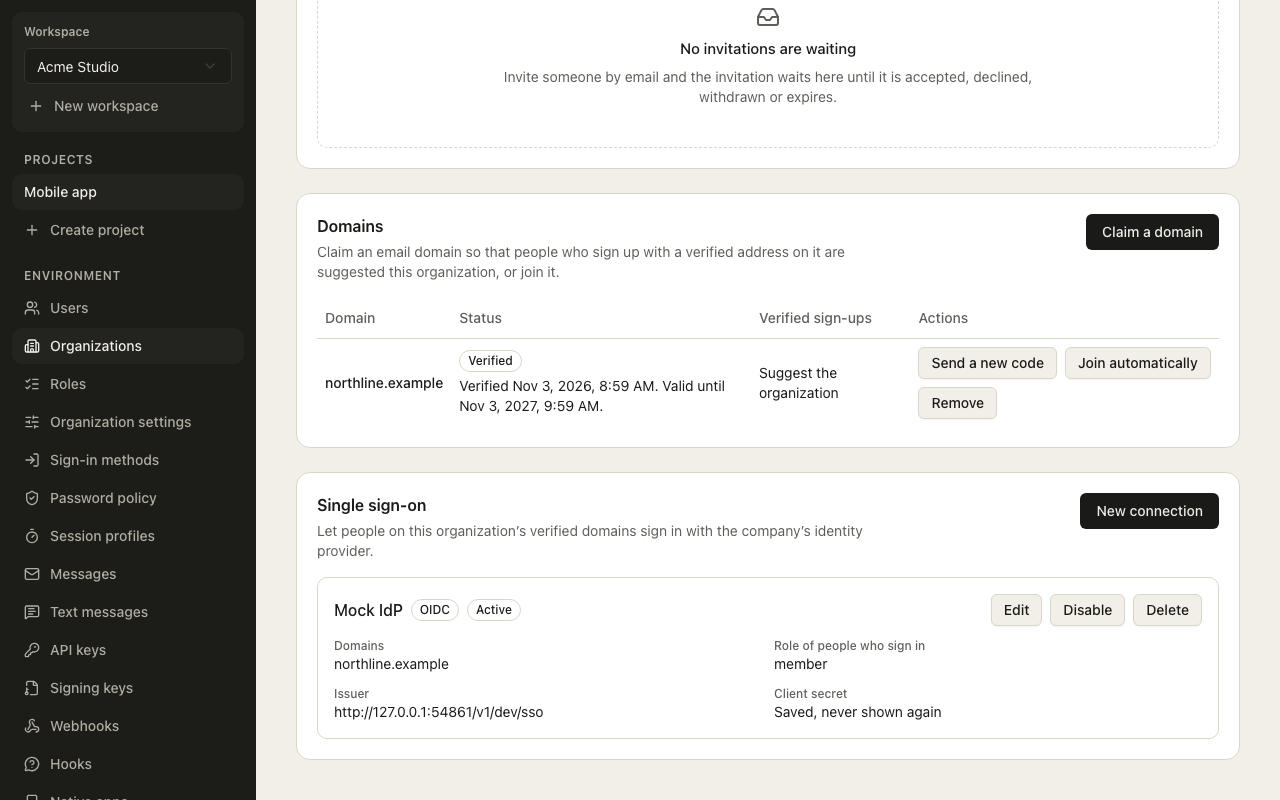
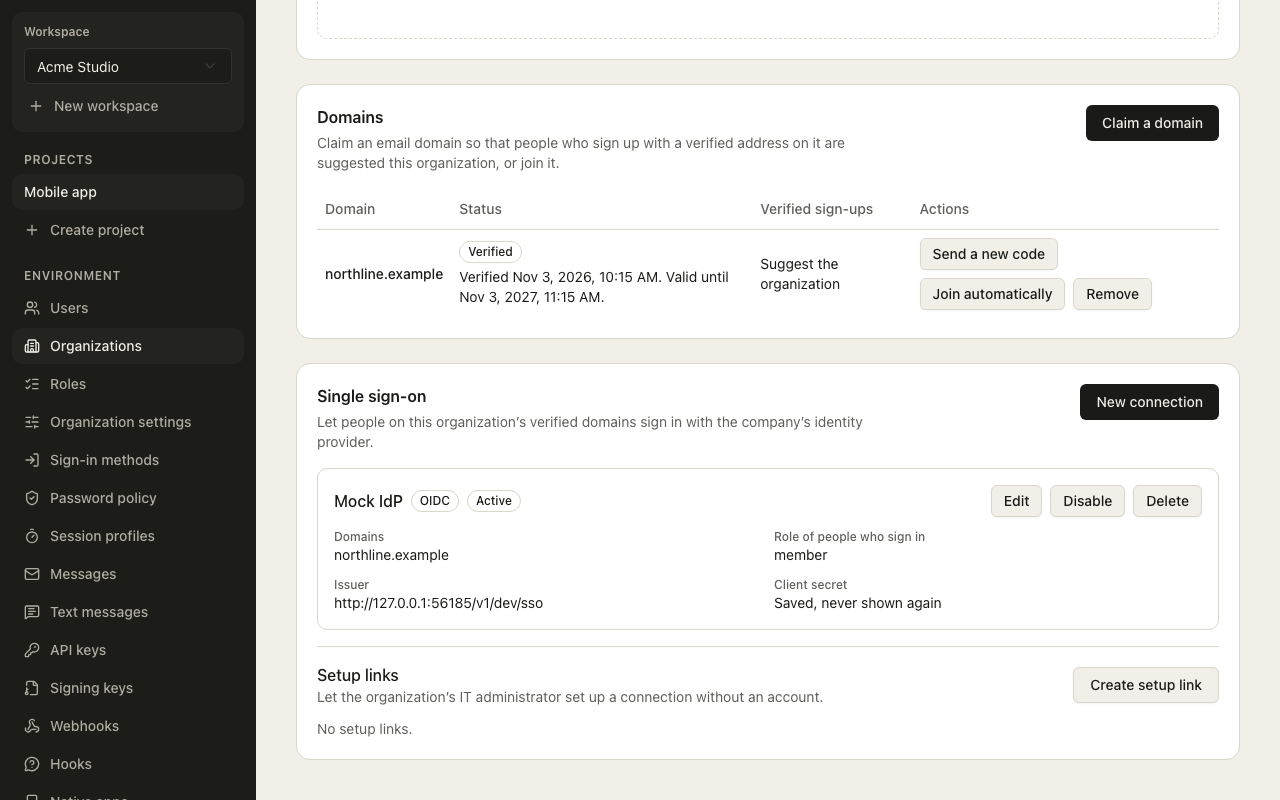
test(e2e): setup portal full OIDC setup against the mock IdP, with axe and screenshots
Claude-Session: https://claude.ai/code/session_01GVLsRtE52qs8qZGbcUxg3N

diff --git a/e2e/tests/dashboard/setup-portal.spec.ts b/e2e/tests/dashboard/setup-portal.spec.ts
@@ -1,0 +1,176 @@
+import type { Page } from '@playwright/test'
+import { API_URL, bindSsoDomain, restoreSettings } from '../support'
+import {
+  ENVIRONMENT_ID,
+  ENVIRONMENT_PATH,
+  expect,
+  expectNoSecretKept,
+  expectScreenAccessible,
+  signIn,
+  test,
+} from './support'
+
+// The self-serve SSO setup portal (TULA-149): an operator makes a setup link, and someone with
+// no account sets up, tests and activates an OIDC connection on the API's own mock identity
+// provider through it, under the real Content-Security-Policy.
+
+const DASHBOARD = {
+  'x-tula-dashboard': '1',
+  'x-tula-environment': ENVIRONMENT_ID,
+  origin: API_URL,
+}
+const DOMAIN = 'setup-portal.example.test'
+
+interface Row {
+  id: string
+  slug?: string
+}
+
+async function read<T>(page: Page, path: string): Promise<T> {
+  const response = await page.request.get(`${API_URL}${path}`, { headers: DASHBOARD })
+  expect(response.ok(), path).toBe(true)
+  return (await response.json()) as T
+}
+
+/** Every organization, its connections and its setup links go. */
+async function clear(page: Page): Promise<void> {
+  const organizations = await read<{ data: Row[] }>(page, '/v1/admin/organizations?size=100')
+  for (const organization of organizations.data) {
+    const links = await read<{ links: Row[] }>(
+      page,
+      `/v1/admin/setup-links?organizationId=${organization.id}`
+    )
+    for (const link of links.links) {
+      await page.request.delete(
+        `${API_URL}/v1/admin/setup-links/${link.id}?organizationId=${organization.id}`,
+        { headers: DASHBOARD }
+      )
+    }
+    const listed = await read<{ connections: Row[] }>(
+      page,
+      `/v1/admin/sso-connections?organizationId=${organization.id}`
+    )
+    for (const connection of listed.connections) {
+      await page.request.delete(`${API_URL}/v1/admin/sso-connections/${connection.id}`, {
+        headers: DASHBOARD,
+      })
+    }
+    await page.request.delete(`${API_URL}/v1/admin/organizations/${organization.id}`, {
+      headers: DASHBOARD,
+    })
+  }
+}
+
+let issuer = ''
+
+test.beforeEach(async ({ page }) => {
+  await signIn(page)
+  await restoreSettings(page.request)
+  issuer = await bindSsoDomain(page.request, DOMAIN)
+})
+
+test.afterEach(async ({ page }) => {
+  try {
+    await signIn(page)
+    await clear(page)
+  } finally {
+    await restoreSettings(page.request)
+  }
+})
+
+test('a setup link carries someone with no account through a full OIDC setup', async ({
+  page,
+  context,
+}) => {
+  // The fixture's organization has a verified domain and an active connection: take the
+  // connection away so that the portal starts from nothing.
+  const organizations = await read<{ data: Row[] }>(page, '/v1/admin/organizations?size=100')
+  const organization = organizations.data.find((entry) => entry.slug === 'sso-setup-portal')
+  expect(organization).toBeDefined()
+  const organizationId = (organization as Row).id
+  const existing = await read<{ connections: Row[] }>(
+    page,
+    `/v1/admin/sso-connections?organizationId=${organizationId}`
+  )
+  for (const connection of existing.connections) {
+    await page.request.delete(`${API_URL}/v1/admin/sso-connections/${connection.id}`, {
+      headers: DASHBOARD,
+    })
+  }
+
+  // The operator makes the link in the dashboard; the address is shown once.
+  await page.goto(`${ENVIRONMENT_PATH}/organizations/${organizationId}`)
+  await page.getByRole('button', { name: 'Create setup link' }).click()
+  await page.getByRole('dialog').getByRole('button', { name: 'Create link' }).click()
+  const address = (await page.getByTestId('created-setup-link').textContent()) ?? ''
+  expect(address).toContain('/dashboard/setup#token=tula_setup_')
+  await page.getByRole('button', { name: 'I have copied it' }).click()
+  await expect(page.getByRole('listitem', { name: 'Setup link SSO setup' })).toBeVisible()
+
+  // Someone with no session opens it. The mock provider needs a login hint, as in sso.spec.
+  await context.clearCookies()
+  await context.route('**/v1/dev/sso/authorize*', (route) => {
+    const url = new URL(route.request().url())
+    url.searchParams.set('login_hint', `tester@${DOMAIN}`)
+    return route.continue({ url: url.toString() })
+  })
+  const token = address.split('#token=')[1] ?? ''
+  await page.goto(address)
+  await expect(page.getByText(/Set up single sign-on for SSO Org/)).toBeVisible()
+  // The fragment is taken out of the address at once, and nothing keeps the token.
+  expect(page.url()).not.toContain(token)
+  await expectNoSecretKept(page, [token])
+  await expectScreenAccessible(page, 'setup portal, empty')
+
+  await page.getByLabel('Connection name').fill('Mock IdP')
+  await page.getByLabel('Issuer address').fill(issuer)
+  await page.getByLabel('Client ID').fill('e2e-sso')
+  await page.getByLabel('Client secret').fill('e2e-sso-secret')
+  await page.getByLabel(DOMAIN).check()
+  await page.getByRole('button', { name: 'Create connection' }).click()
+  await expect(page.getByText(/\/v1\/sso\/callback\//)).toBeVisible()
+  expect(await page.content()).not.toContain('e2e-sso-secret')
+  await expectScreenAccessible(page, 'setup portal, connection saved')
+
+  const activate = page.getByRole('button', { name: 'Activate the connection' })
+  await expect(activate).toBeDisabled()
+  const popup = page.waitForEvent('popup')
+  await page.getByRole('button', { name: 'Run a test sign-in' }).click()
+  await popup
+  await expect(page.getByText('The test passed.')).toBeVisible({ timeout: 20_000 })
+  await expect(activate).toBeEnabled()
+  await activate.click()
+  await expect(page.getByText(/This connection is active/)).toBeVisible()
+  await expectScreenAccessible(page, 'setup portal, activated')
+  await expectNoSecretKept(page, [token, 'e2e-sso-secret'])
+
+  // The audit log names the setup link as the actor of what the portal changed.
+  await signIn(page)
+  const listed = await read<{ connections: { status: string }[] }>(
+    page,
+    `/v1/admin/sso-connections?organizationId=${organizationId}`
+  )
+  expect(listed.connections.map((connection) => connection.status)).toEqual(['active'])
+})
+
+test('a revoked link is shown as not valid', async ({ page, context }) => {
+  const organizations = await read<{ data: Row[] }>(page, '/v1/admin/organizations?size=100')
+  const organizationId = (
+    organizations.data.find((entry) => entry.slug === 'sso-setup-portal') as Row
+  ).id
+  const created = await page.request.post(`${API_URL}/v1/admin/setup-links`, {
+    headers: DASHBOARD,
+    data: { organizationId, name: 'Revoked', expiresInDays: 7 },
+  })
+  expect(created.status()).toBe(201)
+  const link = (await created.json()) as { id: string; url: string }
+  const revoked = await page.request.delete(
+    `${API_URL}/v1/admin/setup-links/${link.id}?organizationId=${organizationId}`,
+    { headers: DASHBOARD }
+  )
+  expect(revoked.ok()).toBe(true)
+  await context.clearCookies()
+  await page.goto(link.url)
+  await expect(page.getByText('This setup link is not valid')).toBeVisible()
+  await expectScreenAccessible(page, 'setup portal, invalid link')
+})

diff --git a/e2e/tests/dashboard/screenshots.spec.ts b/e2e/tests/dashboard/screenshots.spec.ts
@@ -210,6 +210,18 @@ test('the dashboard’s screens, in light, dark and at a phone’s width', async
   await shot(page, 'organization-sso')
   await card.scrollIntoViewIfNeeded()
   await shot(page, 'organization-sso-dark', 'dark')
+  const made = await page.request.post(`${API_URL}/v1/admin/setup-links`, {
+    headers: dashboard,
+    data: { organizationId: ssoId, name: 'Screenshot', expiresInDays: 1 },
+  })
+  const setupLink = (await made.json()) as { id: string; url: string }
+  await page.context().clearCookies()
+  await page.goto(setupLink.url)
+  await expect(page.getByText(/Set up single sign-on for SSO Org/)).toBeVisible()
+  await shot(page, 'setup-portal')
+  await shot(page, 'setup-portal-dark', 'dark')
+  await signIn(page)
+  await send('DELETE', `/v1/admin/setup-links/${setupLink.id}?organizationId=${ssoId}`)
   const connections = await page.request.get(
     `${API_URL}/v1/admin/sso-connections?organizationId=${ssoId}`,
     { headers: dashboard }

diff --git a/e2e/tests/support.ts b/e2e/tests/support.ts
@@ -547,9 +547,10 @@ export async function consentAtProvider(
  * so that `anyone@<domain>` continues with SSO. Enables organizations and SSO for the
  * environment: a scenario that calls it puts the settings back (`POST /__test/settings`, `{}`).
  */
-export async function bindSsoDomain(request: APIRequestContext, domain: string): Promise<void> {
+export async function bindSsoDomain(request: APIRequestContext, domain: string): Promise<string> {
   const response = await request.post(`${API_URL}/__test/sso`, { data: { domain } })
   expect(response.ok()).toBe(true)
+  return ((await response.json()) as { issuer: string }).issuer
 }
 
 /**

diff --git a/e2e/server.ts b/e2e/server.ts
@@ -297,7 +297,8 @@ async function bindSsoDomain(body: unknown): Promise<Response> {
     throw new Error('the fixture SSO test sign-in did not pass')
   }
   await admin('PATCH', `/v1/admin/sso-connections/${connection.id}`, { status: 'active' })
-  return json({ ok: true })
+  // The issuer a connection made by hand must name to reach the mock provider (TULA-149).
+  return json({ ok: true, issuer: `http://127.0.0.1:${ssoIdp.port}/v1/dev/sso` })
 }
 
 /** Test-only routes, next to the API's own. Reached by the test runner, never by the page. */
